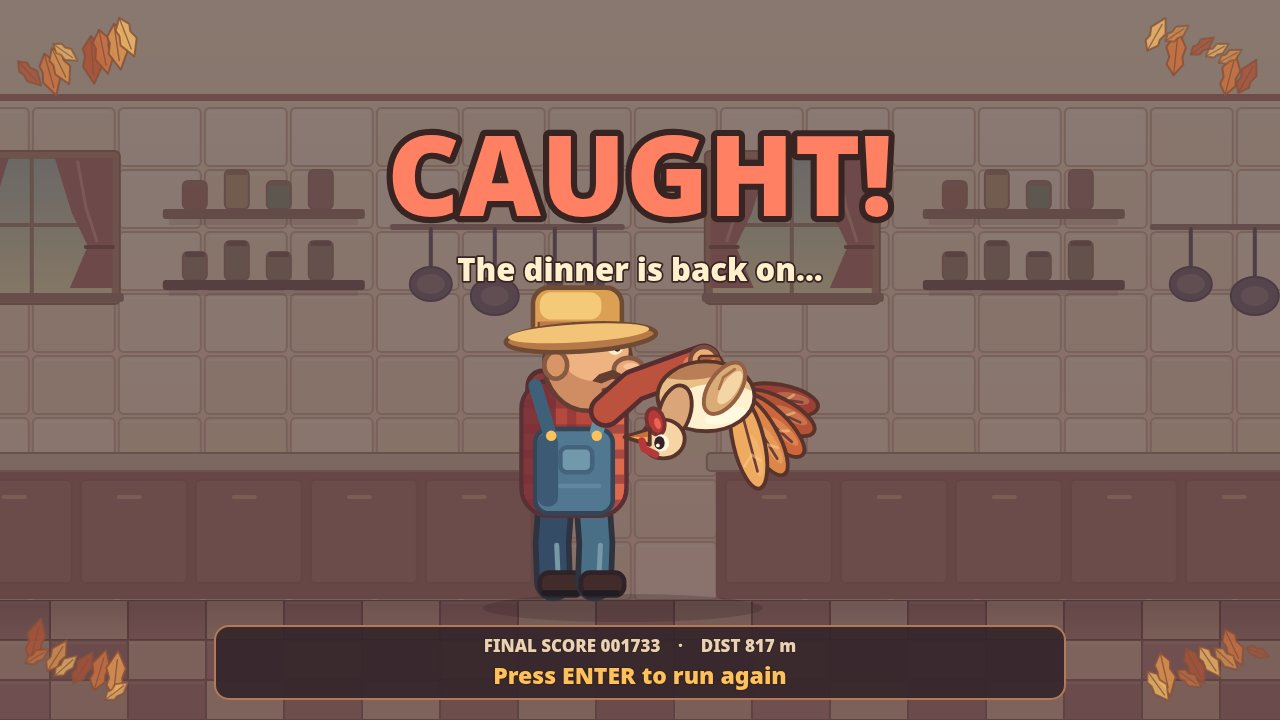
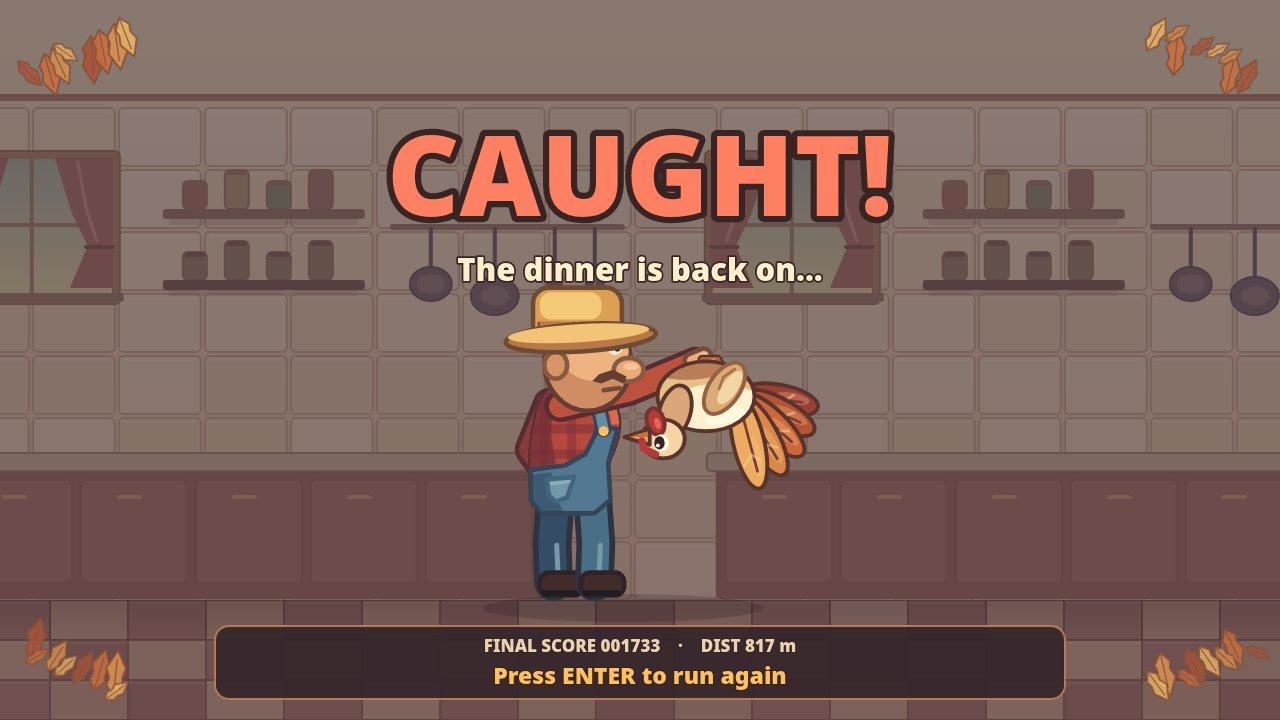
Farmer redrawn in true side profile: single-strap overalls with hip pocket, shoulder-pivot arm pump opposing the legs, profile lunge/search/idle poses

Changed region(s): [[0.4062, 0.4583, 0.5625, 0.7333]]

diff --git a/game/src/render.js b/game/src/render.js
@@ -668,6 +668,7 @@ export class Renderer {
     const c = this.ctx;
     const phase = (farmer.runPhase ?? 0) * TAU;
     const running = !holding && farmer.state !== undefined;
+    const searching = farmer.state === 'search';
     const lunging = farmer.state === 'lunge';
     const stride = running ? Math.sin(phase) * 25 : 0;
     c.save();
@@ -694,35 +695,70 @@ export class Renderer {
       c.translate(0, -Math.abs(Math.cos(phase)) * 2);
     }
 
-    const arm = (side, handX, handY) => {
-      const elbowX = handX * 0.55 - 5;
-      const elbowY = holding ? -94 : lunging && side > 0 ? -74 : -63;
-      const path = [[side * 14, -83], [elbowX, elbowY], [handX, handY]];
-      this.line(path, '#572d31', 15);
-      this.line(path, side < 0 ? '#873b3a' : '#bc513e', 11);
-      this.line([[handX * 0.83 + elbowX * 0.17, handY * 0.83 + elbowY * 0.17],
-        [handX, handY]], '#e87956', 8);
-      this.oval(handX, handY, 6, 6, side < 0 ? '#c3815e' : '#edae79', 0, '#784b3d');
+    const arm = (side) => {
+      const near = side === 1;
+      const shoulder = near ? [-6, -85] : [-11, -86];
+      const swing = -side * (9 + stride) / 34 * 0.78;
+      const forearmAngle = -0.22 - swing * 0.36;
+      let elbow = [shoulder[0] + Math.sin(swing) * 22, shoulder[1] + Math.cos(swing) * 22];
+      let wrist = [elbow[0] + Math.cos(forearmAngle) * 18, elbow[1] + Math.sin(forearmAngle) * 18];
+      if (near && holding) {
+        elbow = [24, -92];
+        wrist = [53, -104];
+      } else if (lunging) {
+        elbow = near ? [22, -88] : [-29, -74];
+        wrist = near ? [47, -85] : [-38, -70];
+      } else if (searching && near) {
+        elbow = [13, -78];
+        wrist = [24, -107];
+      } else if (!running || searching) {
+        elbow = near ? [-17, -65] : [-19, -66];
+        wrist = near ? [-3, -56] : [-12, -56];
+      }
+
+      this.line([shoulder, elbow, wrist], '#572d31', 14);
+      this.line([shoulder, elbow, wrist], near ? '#bc513e' : '#873b3a', 10);
+      this.line([[shoulder[0] + 1, shoulder[1] - 2],
+        [(shoulder[0] + elbow[0]) / 2 + 1, (shoulder[1] + elbow[1]) / 2 - 2]],
+        near ? '#df6b4f' : '#a34e43', 2.4);
+      c.save();
+      c.translate(...wrist);
+      c.rotate(Math.atan2(wrist[1] - elbow[1], wrist[0] - elbow[0]));
+      this.round(-4, -4.5, 12, 9, 3.1, near ? '#edae79' : '#c3815e', '#784b3d');
+      this.line([[3, -2], [6, -2]], near ? '#f7c498' : '#da9970', 1.3);
+      c.restore();
     };
-    arm(-1, lunging ? -31 : -16 + stride * 0.83, -57 - Math.max(0, stride) * 0.45);
-    this.round(-23, -96, 46, 59, 12, '#b6493d', '#583036');
-    c.save();
+    arm(-1);
+
+    // The back tapers into the hip while the chest projects ahead of it.
+    const chest = running ? 4 : 0;
     c.beginPath();
-    c.roundRect(-22, -95, 44, 57, 11);
+    c.moveTo(-18, -42);
+    c.quadraticCurveTo(-21, -61, -17, -79);
+    c.quadraticCurveTo(-15, -93, -5 + chest, -95);
+    c.quadraticCurveTo(7 + chest, -98, 16 + chest, -89);
+    c.quadraticCurveTo(23 + chest, -79, 17, -65);
+    c.quadraticCurveTo(12, -55, 15, -43);
+    c.closePath();
+    this.paint('#b6493d', '#583036');
+    c.save();
     c.clip();
-    this.rect(-23, -95, 15, 57, '#813739');
-    this.rect(11, -95, 12, 57, '#dd6a4d');
+    this.poly([[-22, -95], [-9, -95], [-10, -72], [-7, -53], [-12, -38], [-23, -38]], '#813739');
+    this.poly([[6, -97], [27, -97], [27, -72], [17, -65], [16, -81]], '#dd6a4d');
     for (let i = -15; i <= 20; i += 12) this.rect(i, -95, 4, 57, '#792d386e');
-    for (let i = -88; i < -37; i += 11) this.rect(-23, i, 46, 4, '#792d3888');
+    for (let i = -88; i < -37; i += 11) this.rect(-23, i, 51, 4, '#792d3888');
     c.restore();
-    this.round(-17, -75, 34, 37, 6, '#517890', '#354456');
-    this.round(-16, -73, 9, 32, 4, '#3d5a74');
-    this.line([[-17, -94], [-11, -74]], '#3e6079', 6);
-    this.line([[16, -94], [10, -74]], '#648da2', 6);
-    this.round(-6, -67, 14, 11, 3, '#7199ab', '#44637d');
-    this.line([[-6, -50], [11, -50]], '#63879e', 2);
-    this.oval(-10, -72, 2.3, 2.3, GOLD);
-    this.oval(10, -72, 2.3, 2.3, GOLD);
+
+    // One strap crosses the visible shoulder into the narrow bib at the chest.
+    this.poly([[-19, -57], [-4, -59], [5, -64], [11 + chest, -76], [19 + chest, -75],
+      [15, -60], [16, -44], [9, -38], [-14, -38], [-19, -44]], '#517890', '#354456');
+    this.poly([[-18, -55], [-10, -56], [-9, -48], [-5, -39], [-14, -39], [-18, -44]], '#3d5a74');
+    this.line([[2 + chest, -93], [10 + chest, -88], [13 + chest, -75]], '#354456', 7);
+    this.line([[2 + chest, -93], [10 + chest, -88], [13 + chest, -75]], '#648da2', 4.5);
+    this.oval(13 + chest, -74, 2.2, 2.2, GOLD);
+    this.poly([[-12, -53], [0, -54], [-3, -45], [-8, -43], [-11, -46]], '#7199ab', '#44637d');
+    this.line([[-10, -51], [-2, -52]], '#8bb0bc', 1.3);
+    arm(1);
 
     this.oval(6, -104, 19, 21, '#d08c63', 0, '#633d36');
     this.oval(9, -109, 15, 13, '#efb381');
@@ -730,11 +766,9 @@ export class Renderer {
     this.oval(24, -101, 6.5, 5.2, '#eaa978', 0, '#885943');
     this.oval(25, -102.4, 3.4, 1.6, '#f7c498');
     this.oval(18, -111, 3.6, 3.5, '#ffebce');
-    this.oval(10, -112, 3.5, 3.4, '#ffebce');
     this.oval(19, -111, 1.5, 2.1, INK);
-    this.oval(11, -112, 1.6, 2.1, INK);
-    const brow = farmer.state === 'search' ? -3 : 2;
-    this.line([[7, -117 - brow], [16, -114], [20, -115 - brow * 0.5]], '#59352f', 2.7);
+    const brow = searching ? -3 : 2;
+    this.line([[13, -116 - brow], [18, -115], [21, -115 - brow * 0.5]], '#59352f', 2.7);
     this.poly([[11, -99], [17, -101], [23, -98], [22, -95], [17, -97],
       [12, -95], [8, -96]], '#653e33');
     this.line([[13, -92], [20, -93]], '#77483c', 2);
@@ -745,8 +779,6 @@ export class Renderer {
     this.rect(-15, -122, 14, 2, '#be784c');
     this.oval(3, -115, 33, 6, '#b77948', -0.06, '#704b34');
     this.oval(2, -117, 31, 4, '#f3c477', -0.06);
-    arm(1, holding ? 57 : lunging ? 52 : 24 - stride * 0.75,
-      holding ? -105 : lunging ? -83 : -63 + Math.min(0, stride) * 0.48);
     c.restore();
   }
 
